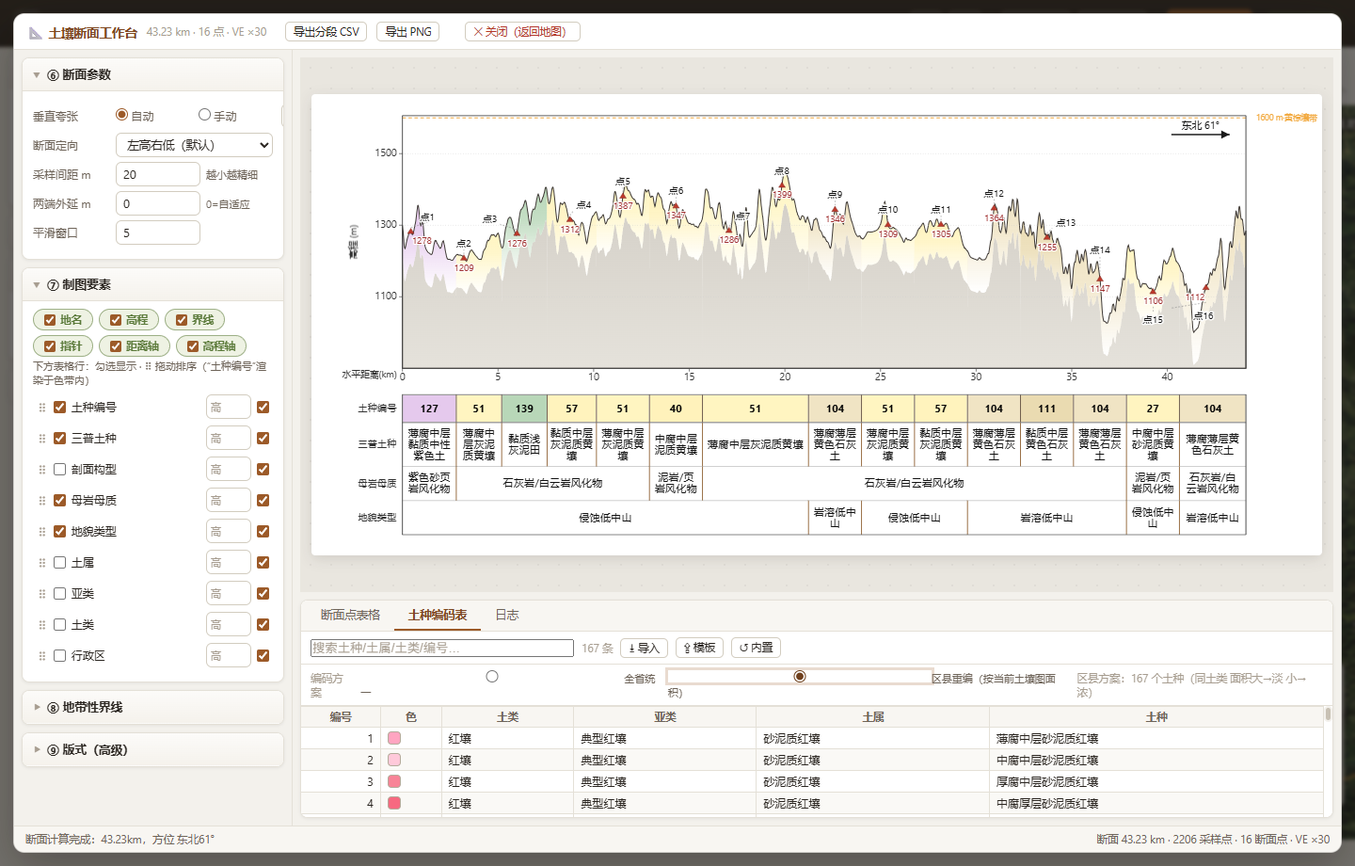
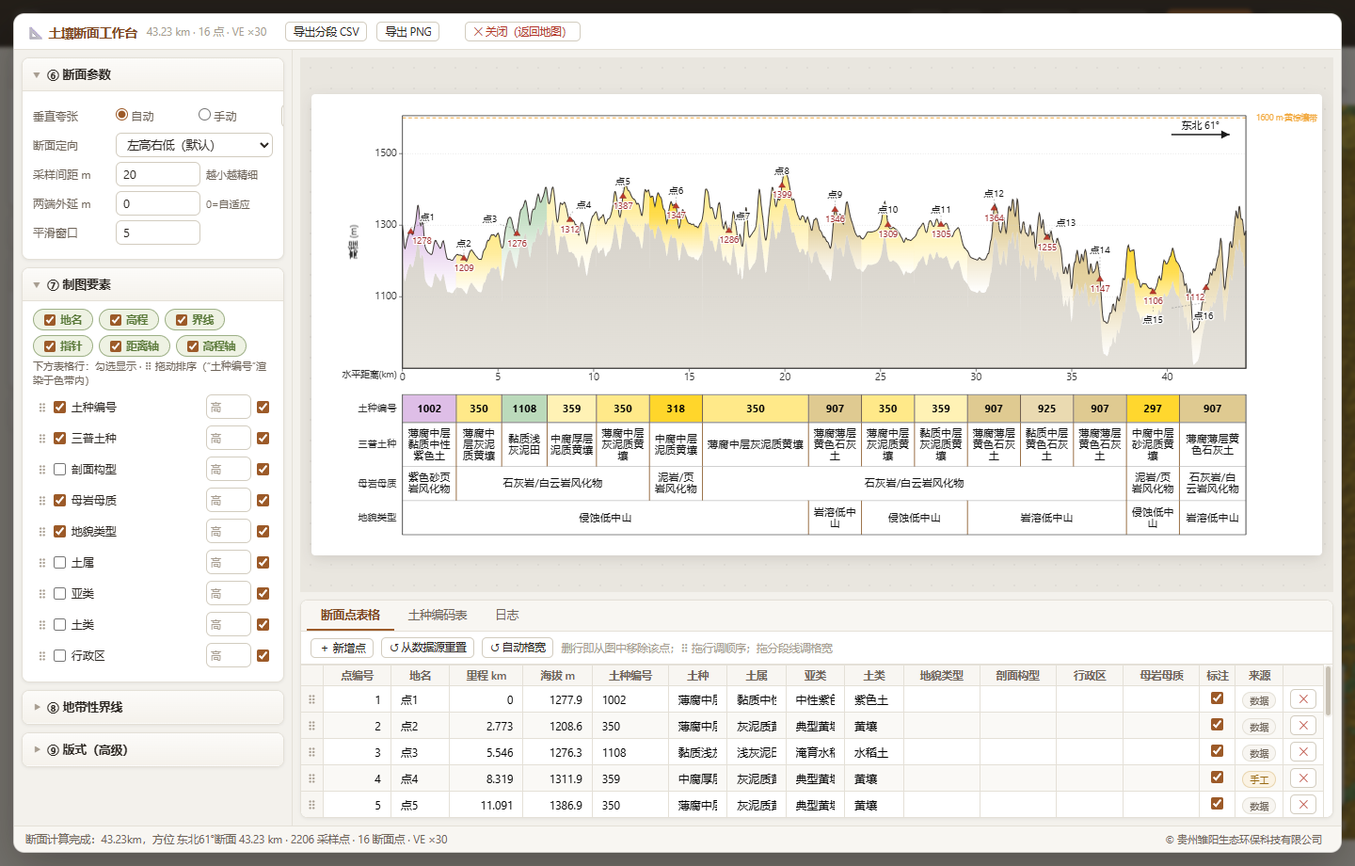
release v0.0.2：表格编辑图即时同步（manual 回填）、删端点自动修剪剖面线、导出断面线点 GeoJSON、字段映射对齐表格列（含地貌类型）、编码表 CSV 导出（Hex+RGB）、分部位字号与字体、表层色带厚度与剖面线色阶、区县重编方案、高程轴开关、页脚与地图页公司署名（贵州雏阳生态环保科技有限公司）；README 中英文与截图更新

diff --git a/dist/app.js b/dist/app.js
@@ -78,7 +78,7 @@ const S = {
     orientation: "high_left", veAuto: true, ve: 10,
     ptNameField: "", ptNoField: "",
     filterMode: "field", filterField: "", filterValue: "", filterDist: 600,
-    soilTL: "", soilYL: "", soilTS: "", soilTZ: "", soilAdmin: "", soilLith: "",
+    soilTL: "", soilYL: "", soilTS: "", soilTZ: "", soilAdmin: "", soilLith: "", soilGEO: "",
     zones: [
       { elev: 600, name: "红壤带", key: "红壤" },
       { elev: 800, name: "黄壤带", key: "黄壤" },
@@ -292,7 +292,7 @@ async function useLayerNow(kind) {
       src.meta = await invoke("use_soil", {
         path, layer,
         tl: cfg.soilTL, yl: cfg.soilYL, ts: cfg.soilTS, tz: cfg.soilTZ,
-        admin: cfg.soilAdmin, lithology: cfg.soilLith,
+        admin: cfg.soilAdmin, lithology: cfg.soilLith, geo: cfg.soilGEO,
       });
     }
     if (kind === "soil") autoMatchFields();
@@ -410,6 +410,31 @@ async function compute(manual = false) {
     const res = await invoke("compute_section", { req: buildReq() });
     S.result = res;
     mergeTable(res);
+    // 自绘模式：表格人工编辑行（manual）属性回填计算结果——后端不接收 override，
+    // 否则重算会用旧提取值覆盖前端编辑（图/表不一致根因）
+    if (S.useCustom) {
+      const tblB = S.cfg.codeScheme === "county" && S.builtinCounty ? S.builtinCounty : S.builtin;
+      S.table.forEach(row => {
+        if (!row || !row.manual) return;
+        const noS = String(row.no);
+        const pR = res.points.find(q => String(q.no) === noS);
+        const sgR = res.segments.find(q => String(q.no) === noS);
+        for (const f of ["name", "tz", "ts", "yl", "tl", "geo", "admin", "lith", "code"]) {
+          const v = row[f];
+          if (v != null && v !== "") {
+            if (pR && f in pR) pR[f] = v;
+            if (sgR && f in sgR) sgR[f] = v;
+          }
+        }
+        if (pR && row.elev != null && row.elev !== "") pR.elev = row.elev;
+        if (sgR && row.tz) {
+          const rec = (tblB.codes || []).find(r2 => r2.tz === row.tz);
+          if (rec) sgR.code = rec.code;
+          const col = (tblB.colorByName || {})[row.tz] || (rec && (tblB.colorByName || {})[rec.tl]);
+          if (col) sgR.color = col;
+        }
+      });
+    }
     renderFigure(res);
     // 默认开启跨格合并的行：首次生成（渲染上下文就绪后）自动初始化分段；已有分段仅刷新文字
     let bandInit = false;
@@ -479,6 +504,7 @@ const FIELD_AUTO = {
   soilTZ: ["土种", "TZ", "土种名称", "土名"],
   soilAdmin: ["乡镇", "XZQMC", "行政区", "行政区划", "县乡村", "XZ", "XZMC"],
   soilLith: ["母岩", "母质", "母岩母质", "母质名称", "MZMC", "成土母质", "母岩类型"],
+  soilGEO: ["地貌", "地貌类型", "地貌名称", "GEO", "DM", "DMLX", "地貌部位"],
 };
 function autoMatchFields() {
   const c = S.cfg;
@@ -490,6 +516,7 @@ function autoMatchFields() {
   c.soilTZ = pick(FIELD_AUTO.soilTZ);
   c.soilAdmin = pick(FIELD_AUTO.soilAdmin);
   c.soilLith = pick(FIELD_AUTO.soilLith);
+  c.soilGEO = pick(FIELD_AUTO.soilGEO);
 }
 
 /* ---------------- 图层面板（QGIS Contents 风格） ---------------- */
@@ -786,7 +813,7 @@ function buildSidebar() {
   const lineOk = pr0.drawLine.length >= 2 && pr0.drawPts.length >= 1;
   const impOk = !!(S.line.meta && S.points.meta);
   const shortName = (p) => p ? p.split(/[\\/]/).pop() : "";
-  const fldAuto = [["soilTL", "土类"], ["soilYL", "亚类"], ["soilTS", "土属"], ["soilTZ", "土种"], ["soilAdmin", "行政区"], ["soilLith", "母岩母质"]];
+  const fldAuto = [["soilTL", "土类"], ["soilYL", "亚类"], ["soilTS", "土属"], ["soilTZ", "土种"], ["soilAdmin", "行政区"], ["soilLith", "母岩母质"], ["soilGEO", "地貌类型"]];
   const fldHit = fldAuto.filter(([k]) => c[k]).length;
   const html = [
     group("① 图层", `<div id="layerList"></div>`, true),
@@ -810,8 +837,8 @@ function buildSidebar() {
       </div>
       <button class="btn small primary" id="btnLoadBase" style="width:100%;margin:5px 0 2px">${baseReady ? "↻ 重新载入" : "⭳ 载入并渲染地图"}</button>
       <details class="adv" id="advSoilFields" title="土壤图属性字段映射（装载时自动匹配，可改）">
-        <summary>字段映射<span class="adv-tag">${fldHit ? `已匹配 ${fldHit}/6` : "待设置"}</span></summary>
-        ${fldAuto.map(([k, t]) => `<div class="row"><label>${t}</label><span class="fill">${selectHtml("sel-soil" + { soilTL: "TL", soilYL: "YL", soilTS: "TS", soilTZ: "TZ", soilAdmin: "AD", soilLith: "LI" }[k], fopts(S.soil.meta, c[k]), c[k])}</span></div>`).join("")}
+        <summary>字段映射<span class="adv-tag">${fldHit ? `已匹配 ${fldHit}/7` : "待设置"}</span></summary>
+        ${fldAuto.map(([k, t]) => `<div class="row"><label>${t}</label><span class="fill">${selectHtml("sel-soil" + { soilTL: "TL", soilYL: "YL", soilTS: "TS", soilTZ: "TZ", soilAdmin: "AD", soilLith: "LI", soilGEO: "GE" }[k], fopts(S.soil.meta, c[k]), c[k])}</span></div>`).join("")}
       </details>`, !baseReady),
 
     group(`${lineOk ? "✔" : ""}③ 剖面（地图绘制）`, `
@@ -820,6 +847,7 @@ function buildSidebar() {
         <button class="btn small" id="btnProfileAdd" title="新建剖面">＋</button>
         <button class="btn small danger" id="btnProfileDel" title="删除当前剖面">✕</button>
       </div>
+      <button class="btn small" id="btnProfileExport" title="导出当前剖面的断面线与断面点为 GeoJSON（WGS84，可再导入使用）" style="width:100%;margin:4px 0">⇩ 导出断面线/点（GeoJSON）</button>
       <div class="ds-stat">线 ${pr0.drawLine.length} 顶点 · 点 ${pr0.drawPts.length} 个<span title="在地图工具栏选择「✏ 画断面线」「📍 布点」绘制，归属当前剖面">ⓘ</span></div>`, true),
 
     group(`${impOk ? "✔" : ""}④ 导入线/点`, `
@@ -1083,6 +1111,26 @@ function wireSidebar() {
     buildSidebar();
     log(`已删除剖面「${pr.name}」`);
   };
+  const pe = $("btnProfileExport");
+  if (pe) pe.onclick = async () => {
+    syncMapToProfile();
+    const pr = currentProfile();
+    if (!pr.drawLine.length && !pr.drawPts.length) return log("当前剖面尚无绘制的线/点", "err");
+    const feats = [];
+    if (pr.drawLine.length >= 2) {
+      feats.push({ type: "Feature", properties: { profile: pr.name, kind: "断面线", vertices: pr.drawLine.length, length_km: +lineLenKm(pr.drawLine).toFixed(3) },
+        geometry: { type: "LineString", coordinates: pr.drawLine.map(p => [+p[0].toFixed(6), +p[1].toFixed(6)]) } });
+    }
+    pr.drawPts.forEach((p, i) => {
+      feats.push({ type: "Feature", properties: { profile: pr.name, kind: "断面点", no: i + 1, name: p[2] || `点${i + 1}` },
+        geometry: { type: "Point", coordinates: [+p[0].toFixed(6), +p[1].toFixed(6)] } });
+    });
+    const gj = JSON.stringify({ type: "FeatureCollection", name: pr.name, crs: { type: "name", properties: { name: "urn:ogc:def:crs:OGC:1.3:CRS84" } }, features: feats }, null, 1);
+    const pth = await invoke("dlg_save", { title: `导出剖面「${pr.name}」线/点`, defaultName: `剖面-${pr.name}-断面线点.geojson`, filterName: "GeoJSON", filterExt: "*.geojson" });
+    if (!pth) return;
+    await invoke("write_text_file", { path: pth, content: gj });
+    log(`剖面「${pr.name}」已导出：${pr.drawLine.length} 线顶点 · ${pr.drawPts.length} 点（WGS84 GeoJSON）: ` + pth);
+  };
   const __gi = $("btnGdalInit");
   if (__gi) __gi.onclick = () => initGdal($("gdalDir").value.trim()).then(loadBuiltin);
   ["line", "points", "soil"].forEach(kind => {
@@ -1136,7 +1184,7 @@ function wireSidebar() {
   if (lf) lf.onchange = () => { c.lineIndex = +lf.value; computeDebounced(); };
   const bindField = (id, k) => { const e = $(id); if (e) { e.onchange = () => { c[k] = e.value; if (S.soil.meta) useLayerNow("soil"); }; } };
   bindField("sel-soilTL", "soilTL"); bindField("sel-soilYL", "soilYL"); bindField("sel-soilTS", "soilTS");
-  bindField("sel-soilTZ", "soilTZ"); bindField("sel-soilAD", "soilAdmin"); bindField("sel-soilLI", "soilLith");
+  bindField("sel-soilTZ", "soilTZ"); bindField("sel-soilAD", "soilAdmin"); bindField("sel-soilLI", "soilLith"); bindField("sel-soilGE", "soilGEO");
   const pno = $("sel-ptno"), pnm = $("sel-ptname");
   if (pno && !c.ptNoField && S.points.meta) {
     const autoNo = ["点编号", "编号", "NO", "no", "ID", "OBJECTID"].find(f => S.points.meta.fields.includes(f));
@@ -1348,6 +1396,23 @@ function renderPointsTable() {
       inp.__t = setTimeout(() => {
         if (inp.__snap) { pushUndo(inp.__snap); inp.__snap = null; }
         if (k === "ch" && v > 0 && S.useCustom) autoFillRowFromChainage(i, v);
+        // 自绘模式：后端不接收表格 override——前端直改计算结果，图即时更新
+        if (S.useCustom && S.result) {
+          const row = S.table[i];
+          const noS = String(row && row.no);
+          const kk = k === "ch" ? "ch_km" : k;
+          const pR = S.result.points.find(q => String(q.no) === noS);
+          const sgR = S.result.segments.find(q => String(q.no) === noS);
+          if (pR && kk in pR) pR[kk] = v;
+          if (sgR && kk in sgR) sgR[kk] = v;
+          if (k === "tz" && sgR) {
+            const tbl2 = S.cfg.codeScheme === "county" && S.builtinCounty ? S.builtinCounty : S.builtin;
+            const rec = (tbl2.codes || []).find(r2 => r2.tz === v);
+            if (rec) sgR.code = rec.code;
+            const col = (tbl2.colorByName || {})[v] || (rec && (tbl2.colorByName || {})[rec.tl]);
+            if (col) sgR.color = col;
+          }
+        }
         // band 行字段被编辑：值序列已变，按新值重新自动分段（数据驱动）
         const rw = S.cfg.rows.find(r => r.key === k);
         if (rw && rw.band && $("figure") && $("figure").__dragCtx) {
@@ -1379,8 +1444,24 @@ function renderPointsTable() {
       });
       if (pr.drawPts.length !== before) {
         S.map.pts = pr.drawPts.slice();
+        // 删端点后按剩余点里程修剪剖面线（剖面总长随之缩短，重算即生效）
+        if (pr.drawPts.length >= 2 && pr.drawLine.length >= 2) {
+          const chs = S.table.map(r => +r.ch || 0).filter(v => v > 0);
+          if (chs.length >= 2) {
+            const chA = Math.min(...chs) * 1000, chB = Math.max(...chs) * 1000;
+            const lenM = lineLenKm(pr.drawLine) * 1000;
+            if (chA > 1 || chB < lenM - 1) {
+              pr.drawLine = trimLineToCh(pr.drawLine, chA, chB);
+              S.map.draw = pr.drawLine.map(q => [q[0], q[1]]);
+              log(`端点删除：剖面线已修剪至 ${((chB - chA) / 1000).toFixed(2)} km`);
+            }
+          }
+        }
         updateDrawSources();
-        try { await commitCustomPoints(); } catch (e) { log("点集提交失败: " + e, "err"); }
+        try {
+          await invoke("set_custom_line", { pts: pr.drawLine.map(q => [q[0], q[1]]), epsg: 4326 });   // 修剪后的线同步后端
+          await commitCustomPoints();
+        } catch (e) { log("线/点提交失败: " + e, "err"); }
       } else {
         log(`未匹配到剖面点（${row.name || "点" + row.no}），表格行已删除；若再次生成该点可能恢复`, "warn");
       }
@@ -2577,6 +2658,27 @@ async function autoFillRowFromChainage(rowIdx, km) {
 
 /* ---------------- 地图测距（📏 模式） ---------------- */
 S.measure = { pts: [], done: false };
+const lineLenKm = (pts) => { let d = 0; for (let i = 1; i < pts.length; i++) d += havM(pts[i - 1], pts[i]); return d / 1000; };
+/* 沿折线累计里程裁取 [chA, chB] 米区间子线（端点线性插值）——删端点后缩短剖面线用 */
+function trimLineToCh(line, chA, chB) {
+  const out = [];
+  let acc = 0;
+  const at = (p, q, d0, d1, ch) => {
+    const t = Math.min(1, Math.max(0, (ch - d0) / Math.max(d1 - d0, 1e-9)));
+    return [p[0] + (q[0] - p[0]) * t, p[1] + (q[1] - p[1]) * t];
+  };
+  for (let i = 1; i < line.length; i++) {
+    const p = line[i - 1], q = line[i];
+    const d = havM(p, q), a0 = acc, a1 = acc + d;
+    if (a1 >= chA && a0 <= chB) {
+      const lo = Math.max(a0, chA), hi = Math.min(a1, chB);
+      if (lo > a0) out.push(at(p, q, a0, a1, lo)); else if (!out.length || out[out.length - 1] !== p) out.push(p);
+      if (hi < a1) out.push(at(p, q, a0, a1, hi)); else out.push(q);
+    }
+    acc = a1;
+  }
+  return out.length >= 2 ? out : line.slice();
+}
 const havM = (a, b) => {
   const R = 6371008.8, rad = Math.PI / 180;
   const dLat = (b[1] - a[1]) * rad, dLng = (b[0] - a[0]) * rad;

diff --git a/dist/index.html b/dist/index.html
@@ -57,6 +57,7 @@
         </div>
         <div style="flex:1;min-height:0;position:relative;overflow:hidden" id="mapWrap">
           <div id="mapLibre" style="position:absolute;inset:0"></div>
+          <div id="mapCredit">© 贵州雏阳生态环保科技有限公司</div>
           <div id="elevLegend" style="display:none"></div>
           <div id="measureBar" style="display:none"></div>
           <div class="empty" id="mapEmpty">
@@ -154,6 +155,7 @@
 <footer class="statusbar">
     <span id="statusLeft">就绪</span>
     <span id="statusRight"></span>
+    <span style="margin-left:auto;color:var(--text2);font-size:11px;padding:0 8px;white-space:nowrap">© 贵州雏阳生态环保科技有限公司</span>
   </footer>
 </div>
 <script src="app.js"></script>

diff --git a/dist/style.css b/dist/style.css
@@ -400,3 +400,10 @@ td.num, td.num input { text-align: right; font-variant-numeric: tabular-nums; }
   border-radius: 6px; padding: 5px 10px; font-size: 12.5px;
   box-shadow: var(--shadow-2); pointer-events: none; white-space: pre-wrap; word-break: break-all;
 }
+
+/* 地图页公司署名（右下角，不拦截地图交互） */
+#mapCredit {
+  position: absolute; right: 10px; bottom: 8px; z-index: 5;
+  color: rgba(255, 255, 255, 0.85); text-shadow: 0 1px 2px rgba(0, 0, 0, 0.55);
+  font-size: 11px; pointer-events: none; white-space: nowrap;
+}

diff --git a/src-tauri/src/commands.rs b/src-tauri/src/commands.rs
@@ -247,14 +247,14 @@ pub fn use_points_impl(st: &mut AppState, path: &str, layer: &str) -> Result<Val
 #[tauri::command]
 pub async fn use_soil(state: State<'_, SharedState>, path: String, layer: String,
                 tl: String, yl: String, ts: String, tz: String,
-                admin: String, lithology: String) -> Result<Value, String> {
+                admin: String, lithology: String, geo: Option<String>) -> Result<Value, String> {
     let mut st = state.lock().unwrap();
-    use_soil_impl(&mut st, &path, &layer, &tl, &yl, &ts, &tz, &admin, &lithology)
+    use_soil_impl(&mut st, &path, &layer, &tl, &yl, &ts, &tz, &admin, &lithology, geo.as_deref().unwrap_or(""))
 }
 
 pub fn use_soil_impl(st: &mut AppState, path: &str, layer: &str,
                      tl: &str, yl: &str, ts: &str, tz: &str,
-                     admin: &str, lithology: &str) -> Result<Value, String> {
+                     admin: &str, lithology: &str, geo: &str) -> Result<Value, String> {
     let mut src = use_layer(path, layer)?;
     // 将用户映射的字段名规范化为 TL/YL/TS/TZ/ADMIN/LITH
     let mut tl = tl.to_string(); let mut yl = yl.to_string(); let mut ts = ts.to_string(); let mut tz = tz.to_string();
@@ -275,6 +275,8 @@ pub fn use_soil_impl(st: &mut AppState, path: &str, layer: &str,
     remap(&mut src, &mut admin, "ADMIN");
     let mut lithology = lithology.to_string();
     remap(&mut src, &mut lithology, "LITH");
+    let mut geo = geo.to_string();
+    remap(&mut src, &mut geo, "GEO");
     let out = json!({"fields": src.fields, "epsg": src.epsg, "count": src.feats.len()});
     st.soil_src = Some(src);
     st.county = None;   // 换土壤图后区县编码缓存失效
@@ -541,7 +543,7 @@ pub fn compute_impl(st: &mut AppState, req: Value) -> Result<Value, String> {
     struct MPt {
         no: i64, name: String, ch: f64, elev: Option<f64>,
         tl: String, yl: String, ts: String, tz: String,
-        code: String, color: String, admin: String, lith: String,
+        code: String, color: String, admin: String, lith: String, geo: String,
     }
     let mut members: Vec<MPt> = Vec::new();
     for (i, rp) in raw_points.iter().enumerate() {
@@ -567,8 +569,8 @@ pub fn compute_impl(st: &mut AppState, req: Value) -> Result<Value, String> {
         let pt_epsg = line_epsg;
         let mut sp = [(px, py)];
         transform_xy(g, pt_epsg, soil_src.epsg, &mut sp)?;
-        let (tl, yl, ts, tz) = soil_at(soil_src, sp[0].0, sp[0].1)
-            .unwrap_or((String::new(), String::new(), String::new(), String::new()));
+        let (tl, yl, ts, tz, pgeo) = soil_at(soil_src, sp[0].0, sp[0].1)
+            .unwrap_or((String::new(), String::new(), String::new(), String::new(), String::new()));
         // 点 CRS -> DEM CRS 取高程
         let mut dp = [(px, py)];
         transform_xy(g, pt_epsg, dem.epsg, &mut dp)?;
@@ -582,7 +584,7 @@ pub fn compute_impl(st: &mut AppState, req: Value) -> Result<Value, String> {
         let admin = rp.admin.clone();
         let lith = rp.lith.clone();
         members.push(MPt {
-            no, name, ch, elev, tl, yl, ts, tz, code, color, admin, lith,
+            no, name, ch, elev, tl, yl, ts, tz, code, color, admin, lith, geo: pgeo,
         });
     }
 
@@ -617,6 +619,7 @@ pub fn compute_impl(st: &mut AppState, req: Value) -> Result<Value, String> {
             }
             let admin = s(r, "admin"); if !admin.is_empty() { mm.admin = admin; }
             let lith = s(r, "lith"); if !lith.is_empty() { mm.lith = lith; }
+            let geov = s(r, "geo"); if !geov.is_empty() { mm.geo = geov; }
             let color = s(r, "color");
             if color.starts_with('#') { mm.color = color; }
             kept.push(mm);
@@ -634,7 +637,7 @@ pub fn compute_impl(st: &mut AppState, req: Value) -> Result<Value, String> {
                 tl: s(r, "tl"), yl: s(r, "yl"), ts: s(r, "ts"), tz: tz.clone(),
                 code: if s(r, "code").is_empty() { scheme_tbl.code_of_ov(&tz).unwrap_or_default() } else { s(r, "code") },
                 color: scheme_tbl.color_of_ov(&tz, &s(r, "ts"), &s(r, "yl"), &s(r, "tl")),
-                admin: s(r, "admin"), lith: s(r, "lith"),
+                admin: s(r, "admin"), lith: s(r, "lith"), geo: s(r, "geo"),
             });
         }
         members = kept;
@@ -679,7 +682,7 @@ pub fn compute_impl(st: &mut AppState, req: Value) -> Result<Value, String> {
         pts_json.push(json!({
             "no": m.no, "name": m.name, "ch_km": m.ch / 1000.0, "elev": e_p,
             "code": m.code, "tz": m.tz, "ts": m.ts, "yl": m.yl, "tl": m.tl,
-            "color": m.color, "admin": m.admin, "lith": m.lith,
+            "color": m.color, "admin": m.admin, "lith": m.lith, "geo": m.geo,
         }));
         // 地貌部位（贵州山间地貌经验划分，自 Python 版 geomorph 移植）
         let mean_e = esum / en;
@@ -691,7 +694,7 @@ pub fn compute_impl(st: &mut AppState, req: Value) -> Result<Value, String> {
         let pre = if m.tl == "石灰岩土" { "岩溶" }
             else if m.tl == "水稻土" && rel < 120.0 { "坝子" }
             else { "侵蚀" };
-        let geo = format!("{}{}", pre, base);
+        let geo = if m.geo.is_empty() { format!("{}{}", pre, base) } else { m.geo.clone() };
         segs_json.push(json!({
             "x0_km": x0 / 1000.0, "x1_km": x1 / 1000.0,
             "no": m.no, "code": m.code, "tz": m.tz, "ts": m.ts, "yl": m.yl, "tl": m.tl,

diff --git a/src-tauri/src/pipeline.rs b/src-tauri/src/pipeline.rs
@@ -376,7 +376,7 @@ pub fn dem_sample(dem: &DemSrc, x: f64, y: f64) -> Option<f64> {
 }
 
 /// 点位土种查询：包络预筛 + OGR Contains；未命中时 500m 内就近兜底
-pub fn soil_at(soil: &VectorSrc, gx: f64, gy: f64) -> Option<(String, String, String, String)> {
+pub fn soil_at(soil: &VectorSrc, gx: f64, gy: f64) -> Option<(String, String, String, String, String)> {
     let g = get().ok()?;
     const FALLBACK_M: f64 = 500.0;
     unsafe {
@@ -411,7 +411,7 @@ pub fn soil_at(soil: &VectorSrc, gx: f64, gy: f64) -> Option<(String, String, St
         (g.f.ogr_g_destroy)(pt);
         hit.map(|f| {
             let get = |k: &str| f.attrs.get(k).cloned().unwrap_or_default();
-            (get("TL"), get("YL"), get("TS"), get("TZ"))
+            (get("TL"), get("YL"), get("TS"), get("TZ"), get("GEO"))
         })
     }
 }

diff --git a/src-tauri/src/bin/fulltest.rs b/src-tauri/src/bin/fulltest.rs
@@ -34,7 +34,7 @@ fn main() {
     let r_pts = use_points_impl(&mut st, &(base.to_string() + r"\安龙县断面点加密.gdb"), "alx点合并").unwrap();
     ck!("use_points_impl", r_pts["count"] == 53, "");
     let r_soil = use_soil_impl(&mut st, &(base.to_string() + r"\alx.gdb"), "三普土壤类型图",
-                               "TL", "YL", "TS", "TZ", "", "").unwrap();
+                               "TL", "YL", "TS", "TZ", "", "", "").unwrap();
     ck!("use_soil_impl", r_soil["count"] == 20246, "");
     let r_dem = use_dem_impl(&mut st, &(base.to_string() + r"\dem.tif")).unwrap();
     ck!("use_dem_impl", r_dem["xsize"] == 2267 && r_dem["epsg"] == 4544, &format!("EPSG:{}", r_dem["epsg"]));

diff --git a/README.en.md b/README.en.md
@@ -33,12 +33,12 @@ Tech stack: Rust · Tauri 2 · MapLibre GL · GDAL 3.10 (dynamically loaded via 
 - Elevation axis and distance axis can be toggled independently
 - Zonal boundary lines automatically take the soil order color when the name contains one
 - Terrain coloring (soil-color default): a surface blanket follows the terrain — each soil segment's color fills a fixed depth below the surface (valleys included), fading into a globally consistent gray gradient; classic gray gradient available as an alternative with adjustable lower stops
-- Section point table: all fields editable, soil species and elevation extracted along the line by distance, drag to reorder, add/delete rows synced across table, figure, and map
+- Section point table: all fields editable with live figure sync (manual edits survive recomputation), soil species and elevation extracted along the line, drag to reorder, add/delete synced; deleting end points trims the profile line automatically
 
 ### Data and Export
 - Coding scheme: province-wide (built-in code table of 1,329 + color table of 1,505 entries) or county re-coding — species found in the loaded soil map are renumbered 1..N (keeping the provincial classification order); within a soil order the hue family is shared and shades are assigned by polygon area (large→light, rare→saturated, per the color-recommendation standard); user JSON import, template export, restore built-in
-- Export PNG (1×–4× resolution) and per-cell detail CSV; project save/open
-- CRS auto-detection; EPSG:4326/4490 automatically converted to CGCS2000 3-degree Gauss-Krüger zones for computation; warning on load for files missing a CRS
+- Export PNG (1×–4× resolution), per-cell detail CSV, and drawn line/points as GeoJSON (re-importable); current code table export to CSV (Hex + RGB); project save/open
+- Soil-map field mapping aligned with table columns (order/suborder/group/species/admin/parent material/landform); CRS auto-detection; EPSG:4326/4490 auto-converted to CGCS2000 3-degree zones; warning for files missing a CRS
 
 ## Basemap Notice
 
@@ -88,4 +88,5 @@ Download `SoilSection-Mapper-vX.Y.Z-portable.zip` from the releases page, unzip,
 
 ## Version History
 
+- 0.0.2 (2026-09-08) — county re-coding with area-based shading, terrain surface blanket and profile-line color ramp, cross-cell bands (on by default), live table-figure sync, end-point deletion trims the line, GeoJSON/CSV export, per-part font size and family, elevation-axis toggle
 - 0.0.1 (2026-08-22) — initial release

diff --git a/README.md b/README.md
@@ -33,12 +33,12 @@
 - 高程刻度轴与距离轴均可独立开关
 - 地带性界线：名称含土类名自动取土类色
 - 地形配色（默认土种色）：表层着色贴地形起伏——每土种段表面向下固定厚度取土种色，谷地低处同样有颜色，带下为全局一致的灰度渐变；备选经典灰渐变，渐变下两级颜色可调
-- 断面点表格：全字段可编辑、按里程沿线提取土种/高程、拖动重排、增删行与图/地图同步
+- 断面点表格：全字段可编辑且图即时同步（自绘模式重算保留人工编辑）、按里程沿线提取土种/高程、拖动重排、增删行与图/地图同步；删除两端断面点自动修剪剖面线（剖面随之缩短）
 
 ### 数据与导出
 - 编码方案：全省统一（内置土种编号表 1329 条 + 色带表 1505 条）或区县重编——按当前土壤图实际出现的土种重新编号（1..N 连续，保持全省分类排序），同土类同色系、组内按图斑面积分配浓淡（面积大→淡、稀有种→浓，依据颜色推荐表与土壤色标表标准）；支持用户 JSON 导入覆盖、模板导出、恢复内置
-- 导出 PNG（1×~4× 分辨率）、分段明细 CSV；项目保存/打开
-- CRS 自动识别；EPSG:4326/4490 自动转 CGCS2000 三度带参与计算；缺坐标系的文件装载时警告
+- 导出 PNG（1×~4× 分辨率）、分段明细 CSV、自绘断面线/点 GeoJSON（可再导入）；当前编码表导出 CSV（含色值 Hex 与 RGB）；项目保存/打开
+- 土壤图字段映射与表格列对齐（土类/亚类/土属/土种/行政区/母岩母质/地貌类型）；CRS 自动识别；EPSG:4326/4490 自动转 CGCS2000 三度带参与计算；缺坐标系的文件装载时警告
 
 ## 底图服务说明
 
@@ -86,4 +86,5 @@ cargo run --release --bin fulltest  # 后端 20 项自测
 
 ## 版本
 
+- 0.0.2（2026-09-08）区县重编方案与面积浓淡配色、地形表层着色与剖面线色阶、跨格分段（默认开启）、表格编辑图即时同步、删端点自动修剪剖面线、GeoJSON/CSV 导出、分部位字号与字体、高程轴开关
 - 0.0.1（2026-08-22）首个版本
